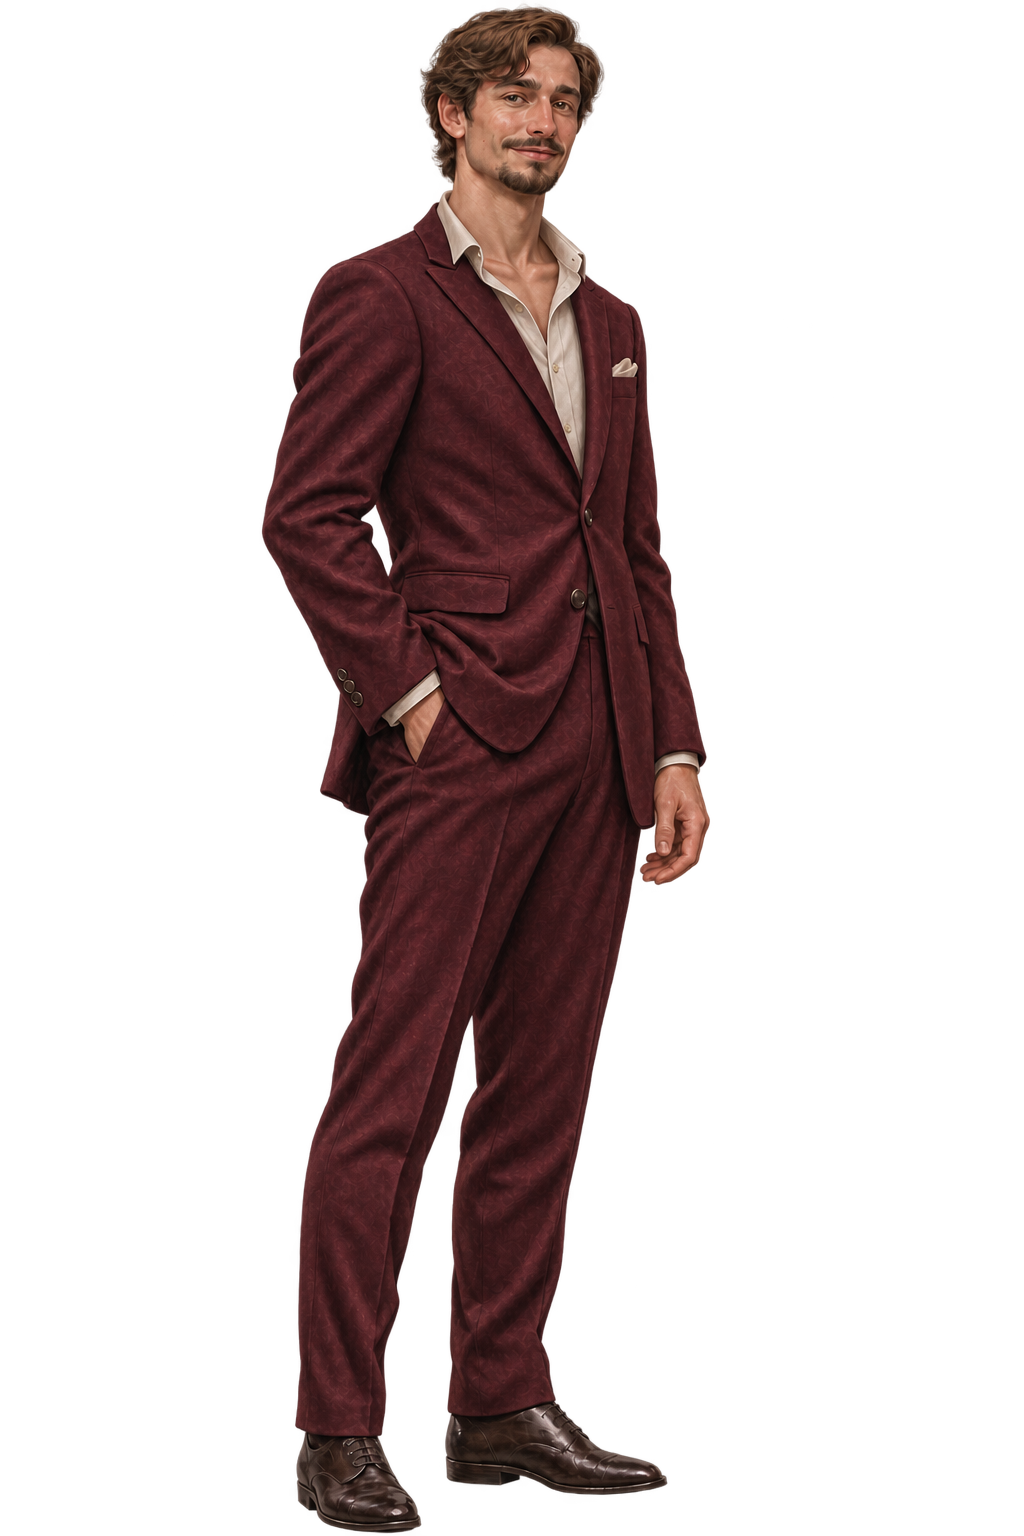
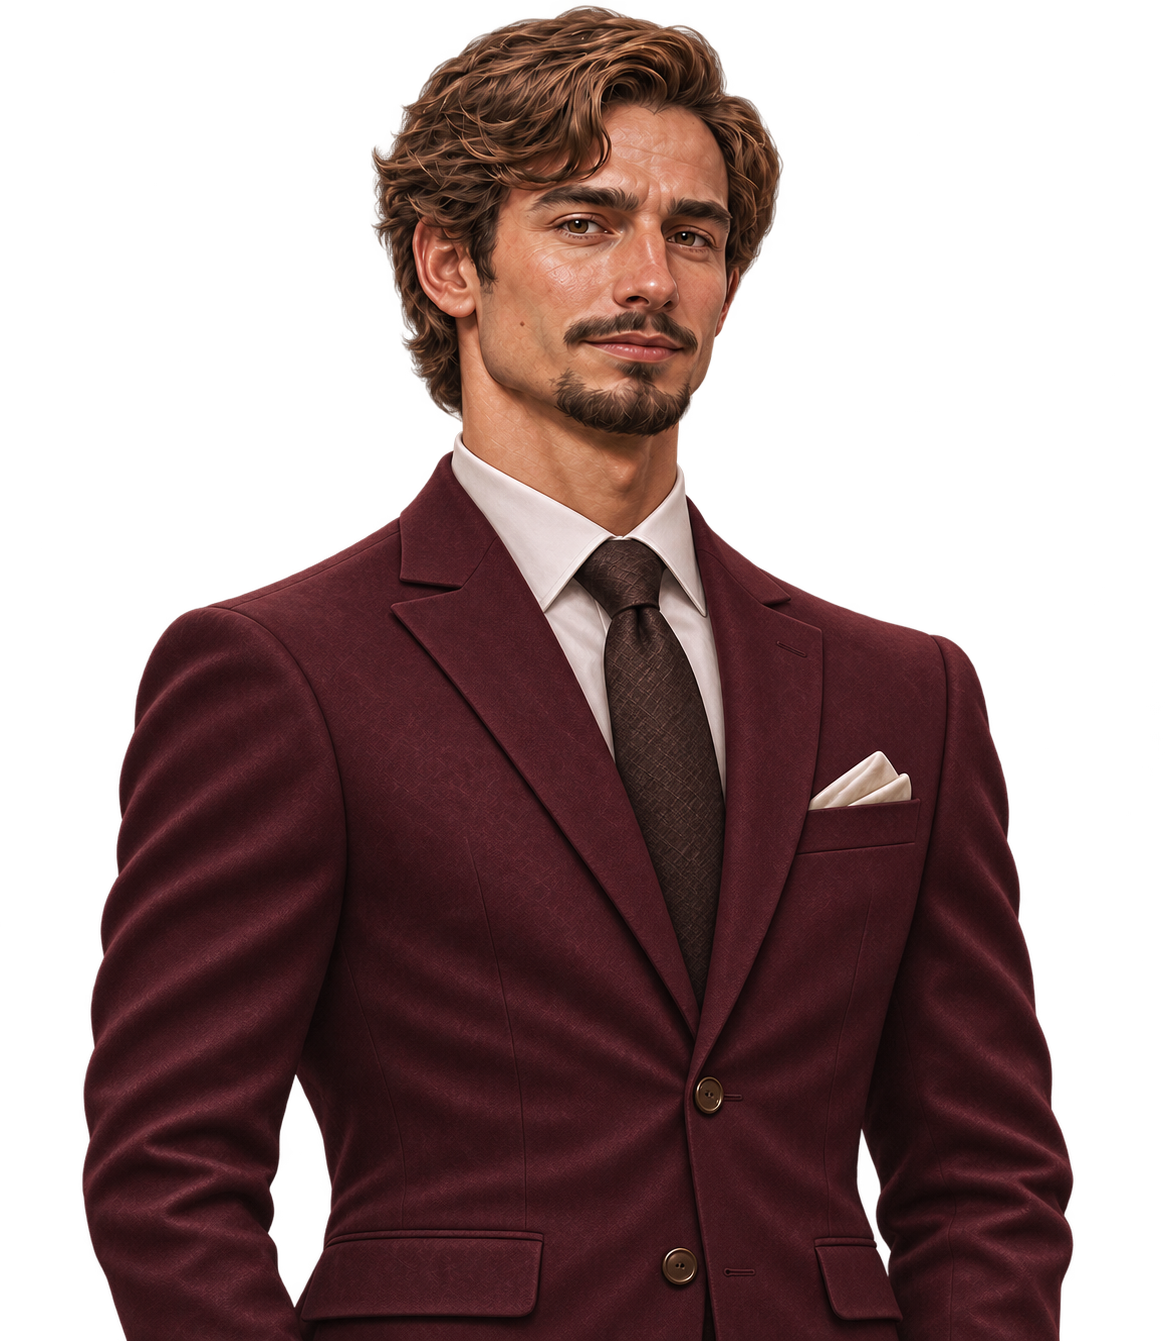
Commit Lucas's formal standing portrait

diff --git a/docs/ART-UI-CANON.md b/docs/ART-UI-CANON.md
@@ -18,7 +18,7 @@ Livia: approved wavy dark hair, silver streaks, freckles, tailored green jacket,
 
 ## Current character portrait direction
 - Keep character masters in the established cinematic painterly realism and repository asset format. Standing is a pose direction, not a request for full-length character sheets; use portrait framing without feet. Preserve natural side-angled posture, identity, costume and lighting. Create seated versions only when requested.
-- Lucas Belzens may take loose inspiration from the author's supplied photo while remaining a distinct fictional character: fair warm skin, slightly long oval face, narrow straight nose, warm brown/hazel eyes with a slight smile-squint, medium-brown side-parted wavy hair, neat short circle beard with a connected moustache and chin beard, clean-shaven cheeks, a subtle Adam's apple and pronounced collarbones, and a slim longer neck. Wine-colored suit.
+- Lucas Belzens may take loose inspiration from the author's supplied photo while remaining a distinct fictional character: fair warm skin, slightly long oval face, narrow straight nose, warm brown/hazel eyes with a slight smile-squint, medium-brown side-parted wavy hair, neat short circle beard with a connected moustache and chin beard, clean-shaven cheeks, a subtle Adam's apple and pronounced collarbones, and a slim longer neck. Wine-colored, sharply tailored suit with a buttoned white shirt and neatly knotted tie; formal, statesmanlike presentation.
 - Edvar Solano: a plausible Kunasaiian appearance without an exaggerated Nordic/Aryan archetype. His forceful political presence may suggest the movement he could lead through expression and posture. Use believable tailored clothing with vivid, high-contrast green, white and gold from Kunasai's flag; keep the colors energetic without oversized lapels, large flag graphics or costume-like trim.
 - Darian Kesht: leaner and paler, watchful, subtly vampiric in mood while capable and professional. Martin Works inherits Kesht's previous portrait design.
 - Julio Porper: sun-weathered sertão appearance, darker dry-looking skin and practical clothing. Arturo Trembolo: larger, broad-shouldered, easy wealthy confidence. Tomás Arguedas: modern San Martín-inspired bearing and styling. Nima Sadrah: Chinese features and understated diplomatic presence. Renata Salgado: Japanese-Kunasaian features with her composed, authoritative design.
